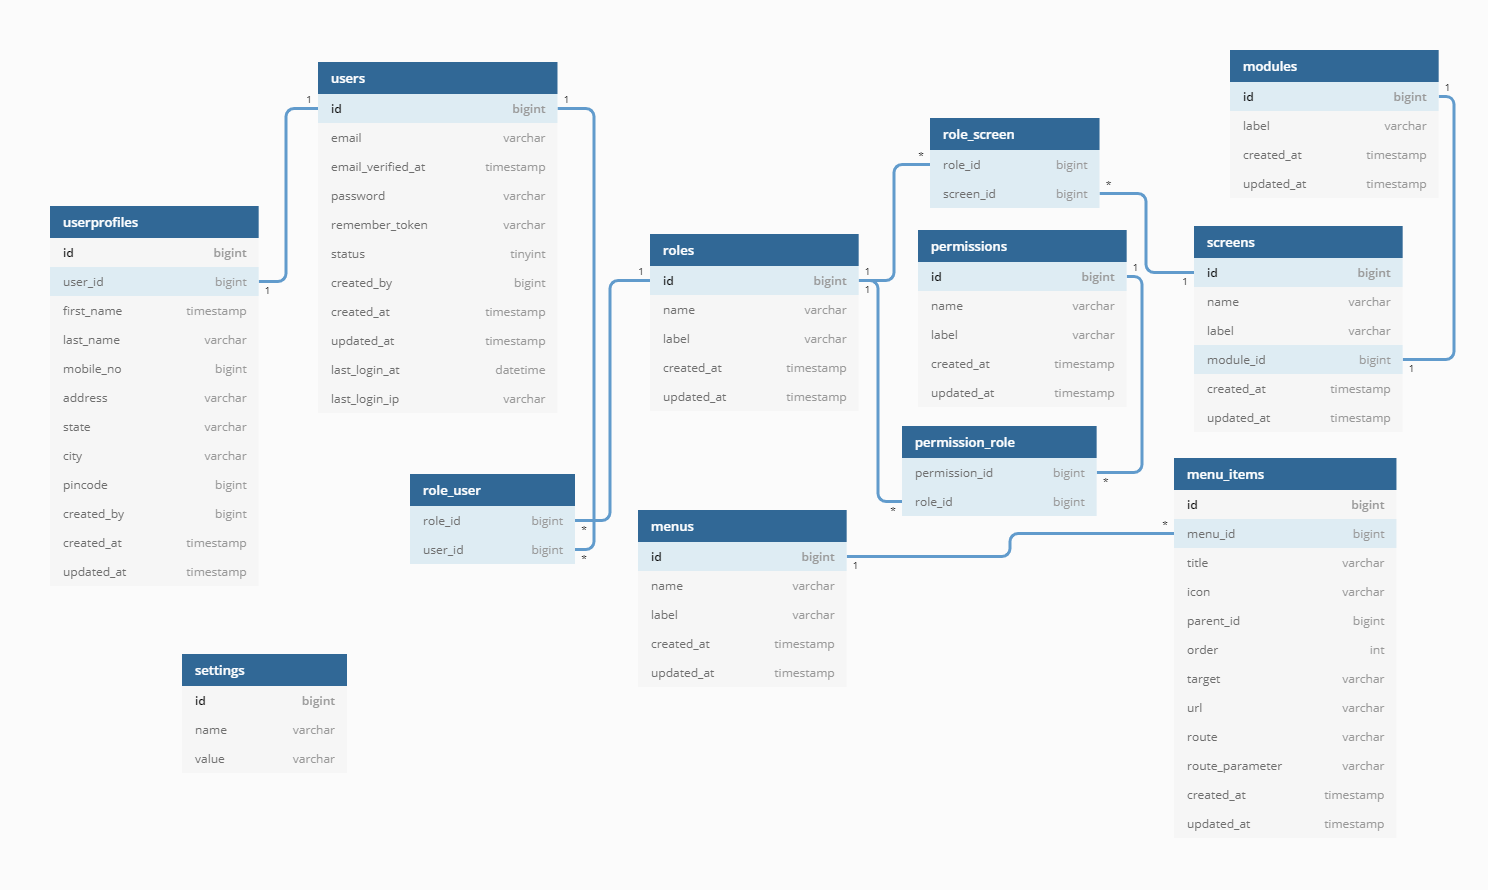
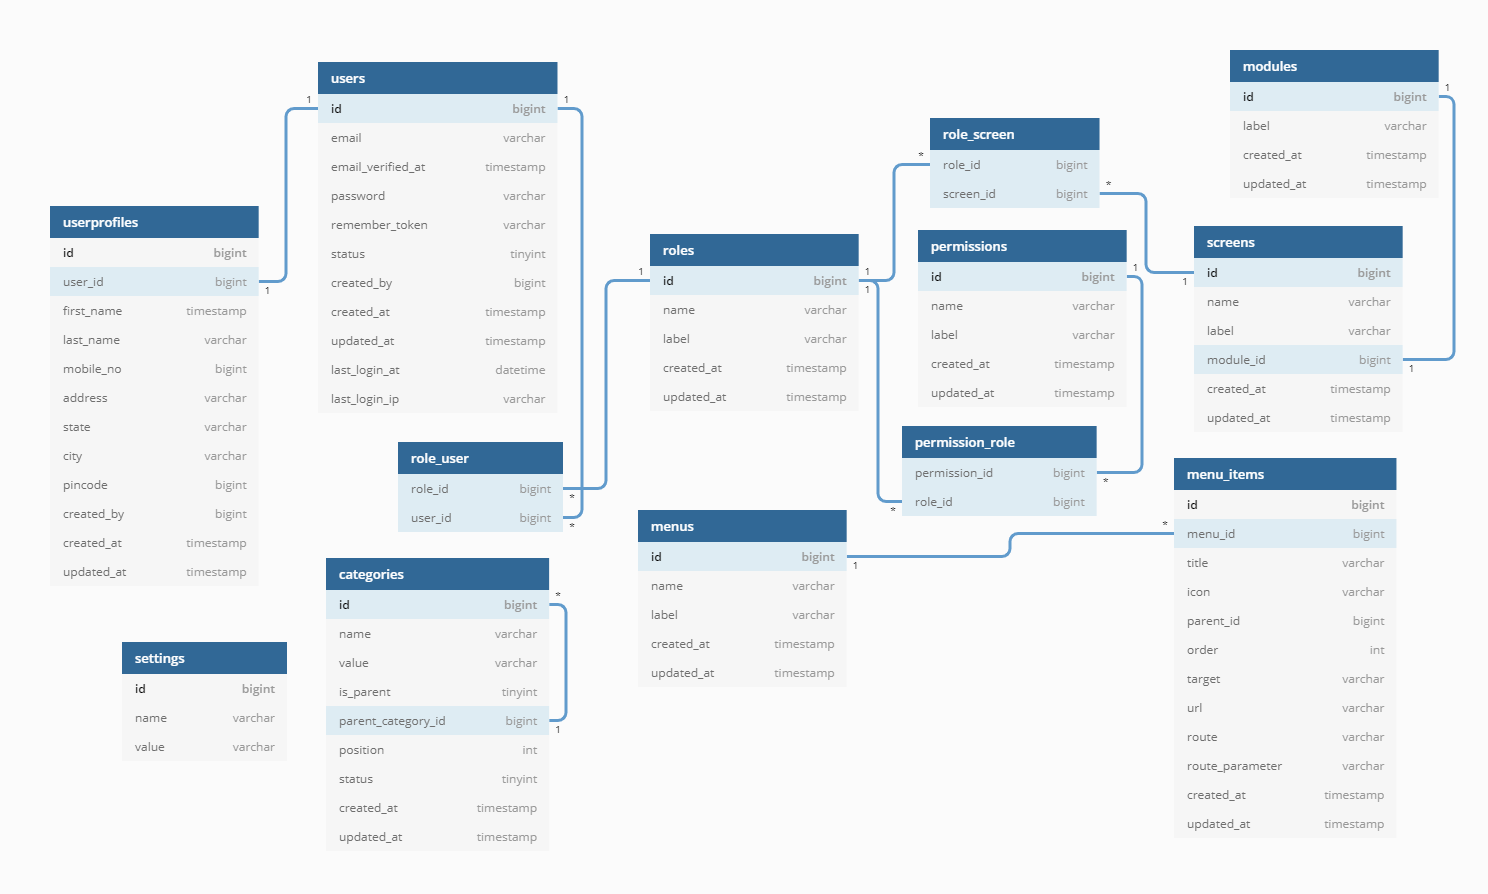
LaraSnap V1.3.0

diff --git a/larasnap/index.html b/larasnap/index.html
@@ -132,22 +132,22 @@
                            <h2 class="section-title">Core Concepts</h2>
                            <div id="user-management"  class="section-block">
                               <h3 class="block-title">User Management</h3>
-                              <p>The User Management section allows you to add, edit, view, delete user and assign role to user.</p>
+                              <p>The User Management module allows you to add, edit, view, delete user and assign role to user.</p>
                            </div>
                            <div id="role-management"  class="section-block">
                               <h3 class="block-title">Role Management</h3>
                               <p>LaraSnap comes with Roles, Permissions, Screens out of the box. Each User has a Role which has a set of Permissions and roles are mapped to screen. User can access the screen only if the role mapped to user, has privileage to access the screen.</p>
                               <div id="roles">
                                  <h6>Roles</h6>
-                                 <p>The Roles section allows you to add, edit, delete roles, assign permissions to role and assign screens to role.</p>
+                                 <p>The Roles module allows you to add, edit, delete roles, assign permissions to role and assign screens to role.</p>
                               </div>
                               <div id="permissions">
                                  <h6>Permissions</h6>
-                                 <p>The Permissions section allows you to add, edit, delete permissions.</p>
+                                 <p>The Permissions module allows you to add, edit, delete permissions.</p>
                               </div>
                               <div id="screens">
                                  <h6>Screens</h6>
-                                 <p>The Screens section allows you to add, edit, delete screens, map screen to module and assign roles to screen.</p>
+                                 <p>The Screens module you to add, edit, delete screens, map screen to module and assign roles to screen.</p>
                               </div>
                               <strong>NOTE: <code class="custom">Assigning Roles to Screen</code> is built with 2 way-binding mechanism, you can assign roles to screen (or) screens to role.</strong>
                            </div>
@@ -163,10 +163,23 @@
                               </p>
                               <strong>NOTE: Menu Management is built with cache mechanism, this will cache the menu and avoid rendering the menu from DB on every request.</strong>
                            </div>
+                           <div id="category-management"  class="section-block">
+                              <h3 class="block-title">Category Management</h3>
+                              <p>With LaraSnap you can easily create/manage categories for any module instanlly & use them on them on the application</p>
+                              <div id="parent-categories">
+                                 <h6>Parent Categories</h6>
+                                 <p>The Categories module allows you to add, edit, delete parent categories and manage the categories mapped under it.</p>
+                              </div>
+                              <div id="categories">
+                                 <h6>Categories</h6>
+                                 <p>The Categories module allows you to add, edit, delete categories and option for making the category as parent, for mapping other categories to this category.</p>
+                              </div>
+                              <p>You can get the list of all the active categories using the following helper: <code>getCategoriesByParentCategory($parentCategorySlug, $orderByColumn, $orderByDirection)</code>, here <b>$parentCategorySlug</b> is required argument and <b>$orderByColumn</b>, <b>$orderByDirection</b> are optional arguments. If the values for <b>$orderByColumn</b> and <b>$orderByDirection</b> are not passed by default it will retrieve the category list by label in asc order.</p>
+                           </div>
                            <div id="site-settings"  class="section-block">
                               <h3 class="block-title">Site Settings</h3>
-                              <p>The Settings section allows you to configure any site wide settings you would like.</p>
-                              <p>You can use the setting on the application on blade template, controller or on any other file by doing the following: <code>setting('site_name')</code> <b>site_name</b> is the name of the setting.</p>
+                              <p>The Settings module allows you to configure any site wide settings you would like.</p>
+                              <p>You can use the setting on the application on blade template, controller or on any other file by doing the following: <code>setting('site_name')</code> <b>site_name</b> is the name of the setting. Similary you can use the other settings, by adding the respective setting name to the helper.</p>
                               <b>Default Settings</b>
                               <div class="table-responsive">
                                  <table class="table table-bordered">
@@ -269,8 +282,35 @@
                                     <img class="img-fluid" src="assets/images/larannapDBSchema.png" alt="db schema">
                                </a>
                                <a class="mask" href="assets/images/larannapDBSchema.png" data-title="DB Schema" data-toggle="lightbox">
-                                    ><svg class="svg-inline--fa fa-search-plus fa-w-16 icon" aria-hidden="true" focusable="false" data-prefix="fa" data-icon="search-plus" role="img" xmlns="http://www.w3.org/2000/svg" viewBox="0 0 512 512" data-fa-i2svg=""><path fill="currentColor" d="M304 192v32c0 6.6-5.4 12-12 12h-56v56c0 6.6-5.4 12-12 12h-32c-6.6 0-12-5.4-12-12v-56h-56c-6.6 0-12-5.4-12-12v-32c0-6.6 5.4-12 12-12h56v-56c0-6.6 5.4-12 12-12h32c6.6 0 12 5.4 12 12v56h56c6.6 0 12 5.4 12 12zm201 284.7L476.7 505c-9.4 9.4-24.6 9.4-33.9 0L343 405.3c-4.5-4.5-7-10.6-7-17V372c-35.3 27.6-79.7 44-128 44C93.1 416 0 322.9 0 208S93.1 0 208 0s208 93.1 208 208c0 48.3-16.4 92.7-44 128h16.3c6.4 0 12.5 2.5 17 7l99.7 99.7c9.3 9.4 9.3 24.6 0 34zM344 208c0-75.2-60.8-136-136-136S72 132.8 72 208s60.8 136 136 136 136-60.8 136-136z"></path></svg>
+                                    <svg class="svg-inline--fa fa-search-plus fa-w-16 icon" aria-hidden="true" focusable="false" data-prefix="fa" data-icon="search-plus" role="img" xmlns="http://www.w3.org/2000/svg" viewBox="0 0 512 512" data-fa-i2svg=""><path fill="currentColor" d="M304 192v32c0 6.6-5.4 12-12 12h-56v56c0 6.6-5.4 12-12 12h-32c-6.6 0-12-5.4-12-12v-56h-56c-6.6 0-12-5.4-12-12v-32c0-6.6 5.4-12 12-12h56v-56c0-6.6 5.4-12 12-12h32c6.6 0 12 5.4 12 12v56h56c6.6 0 12 5.4 12 12zm201 284.7L476.7 505c-9.4 9.4-24.6 9.4-33.9 0L343 405.3c-4.5-4.5-7-10.6-7-17V372c-35.3 27.6-79.7 44-128 44C93.1 416 0 322.9 0 208S93.1 0 208 0s208 93.1 208 208c0 48.3-16.4 92.7-44 128h16.3c6.4 0 12.5 2.5 17 7l99.7 99.7c9.3 9.4 9.3 24.6 0 34zM344 208c0-75.2-60.8-136-136-136S72 132.8 72 208s60.8 136 136 136 136-60.8 136-136z"></path></svg>
                                </a>
+                           </div>
+                        </section> 
+                        <section id="releases" class="doc-section">  
+                           <h2 class="section-title">Releases</h2>
+                           <div class="section-block">
+                              <div class="table-responsive">
+                                 <table class="table table-bordered no-table-border">
+                                    <tbody>
+                                       <tr>
+                                           <td><p><strong>v1.0.0</strong></p></td>
+                                           <td><p>Initial Release.</p></td>
+                                       </tr>
+                                       <tr>
+                                           <td><p><strong>v1.1.0</strong></p></td>
+                                           <td><p>Modified role based screen authentication logics to improve security.</p></td>
+                                       </tr>
+                                       <tr>
+                                           <td><p><strong>v1.2.0</strong></p></td>
+                                           <td><p>Added Module Management for grouping screens to module.</p></td>
+                                       </tr>
+                                       <tr>
+                                           <td><p><strong>v1.3.0</strong></p></td>
+                                           <td><p>Added Category Management.</p></td>
+                                       </tr>
+                                     </tbody>
+                                  </table>          
+                                </div>
                            </div>
                         </section>   
                      </div>
@@ -295,6 +335,7 @@
                                  <a class="nav-link scrollto" href="#screens">Screens</a>
                               </nav>
                               <a class="nav-link scrollto" href="#menu-management">Menu Management</a>
+                              <a class="nav-link scrollto" href="#category-management">Category Management</a>
                               <a class="nav-link scrollto" href="#site-settings">Site Settings</a>
                            </nav>
                            <a class="nav-link scrollto" href="#customization">Customization</a>
@@ -304,6 +345,7 @@
                               <a class="nav-link scrollto" href="#customization3">Adding additional settings</a>
                            </nav>
                            <a class="nav-link scrollto" href="#db-schema">DB Schema</a>
+                           <a class="nav-link scrollto" href="#releases">Releases</a>
                         </nav>
                      </div>
                   </div>

diff --git a/larasnap/assets/css/styles.css b/larasnap/assets/css/styles.css
@@ -1441,7 +1441,10 @@ select {
 .doc-sub-sub-menu a {
     padding-left: 68px !important;
 }
-
+.no-table-border td, .no-table-border th {
+    border: none;
+    padding: 0px;
+}
 @media (max-width: 575.98px) {
   .main-search-box {
     width: 100%;
